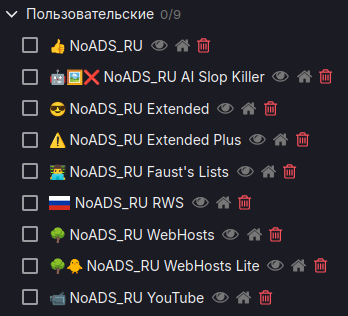
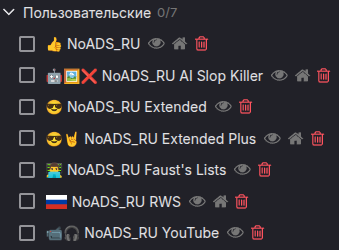
Протестировано в uBlock Origin v1.72.2, Helium.

diff --git a/README.md b/README.md
@@ -243,8 +243,8 @@ https://raw.githubusercontent.com/Zalexanninev15/NoADS_RU/main/filters/faust.txt
 
 * Mozilla Firefox (и браузеры на его основе, рекомендую использовать его сборки: Floorp или Zen Browser)
 * Vivaldi 🦖
-* Helium ❤️ (поставляется со встроенным uBlock Origin и поддержкой всех расширений)
-* Brave 🦖 (поставляется с некоторыми расширениями с Manifest V2 для улучшения конфиденциальности и безопасности, а также блокировки рекламы – uBlock Origin)
+* Helium ❤️ (поставляется со встроенным uBlock Origin и поддержкой всех расширений Manifest V2, рекомендуемый выбор для полноценной работы uBlock Origin и списков фильтров)
+* Brave 🦖 (поставляется с некоторыми расширениями с Manifest V2 для улучшения конфиденциальности и безопасности)
 * Другие браузеры, которые имеют встроенный AdBlock с поддержкой пользовательских списков фильтров
 
 > [!IMPORTANT]
@@ -295,7 +295,7 @@ https://raw.githubusercontent.com/Zalexanninev15/NoADS_RU/main/filters/faust.txt
 > [!TIP]
 > Методы могут быть частично актуальны и для других браузерных расширений.
 
-🦸 Рекомендуется к использованию: **Авторские настройки для uBlock Origin**
+🦸 Рекомендуется к использованию: **Авторские настройки для uBlock Origin** и браузер [Helium](https://github.com/imputnet/helium) (данный браузер уже имеет встроенный uBlock Origin).
 
 - 👍 Лучшие настройки и отличная оптимизация!
 - 👍 Подписка на список **NoADS_RU** активирована!
@@ -376,7 +376,7 @@ https://raw.githubusercontent.com/Zalexanninev15/NoADS_RU/main/ads_list.txt
 
 **Такими браузерами являются**
 
-[![Vivaldi](https://img.shields.io/badge/Vivaldi-EF3939?style=for-the-badge&logo=Vivaldi&logoColor=white)](https://vivaldi.com/ru) [![Brave](https://img.shields.io/badge/Brave-FB542B?style=for-the-badge&logo=Brave&logoColor=white)](https://brave.com/ru/)
+[![Helium Browser](https://img.shields.io/badge/Helium-344fcf?style=for-the-badge&logo=claude&logoColor=white)](https://helium.computer) [![Vivaldi](https://img.shields.io/badge/Vivaldi-EF3939?style=for-the-badge&logo=Vivaldi&logoColor=white)](https://vivaldi.com/ru) [![Brave](https://img.shields.io/badge/Brave-FB542B?style=for-the-badge&logo=Brave&logoColor=white)](https://brave.com/ru/)
 
 #### Как настроить?
 